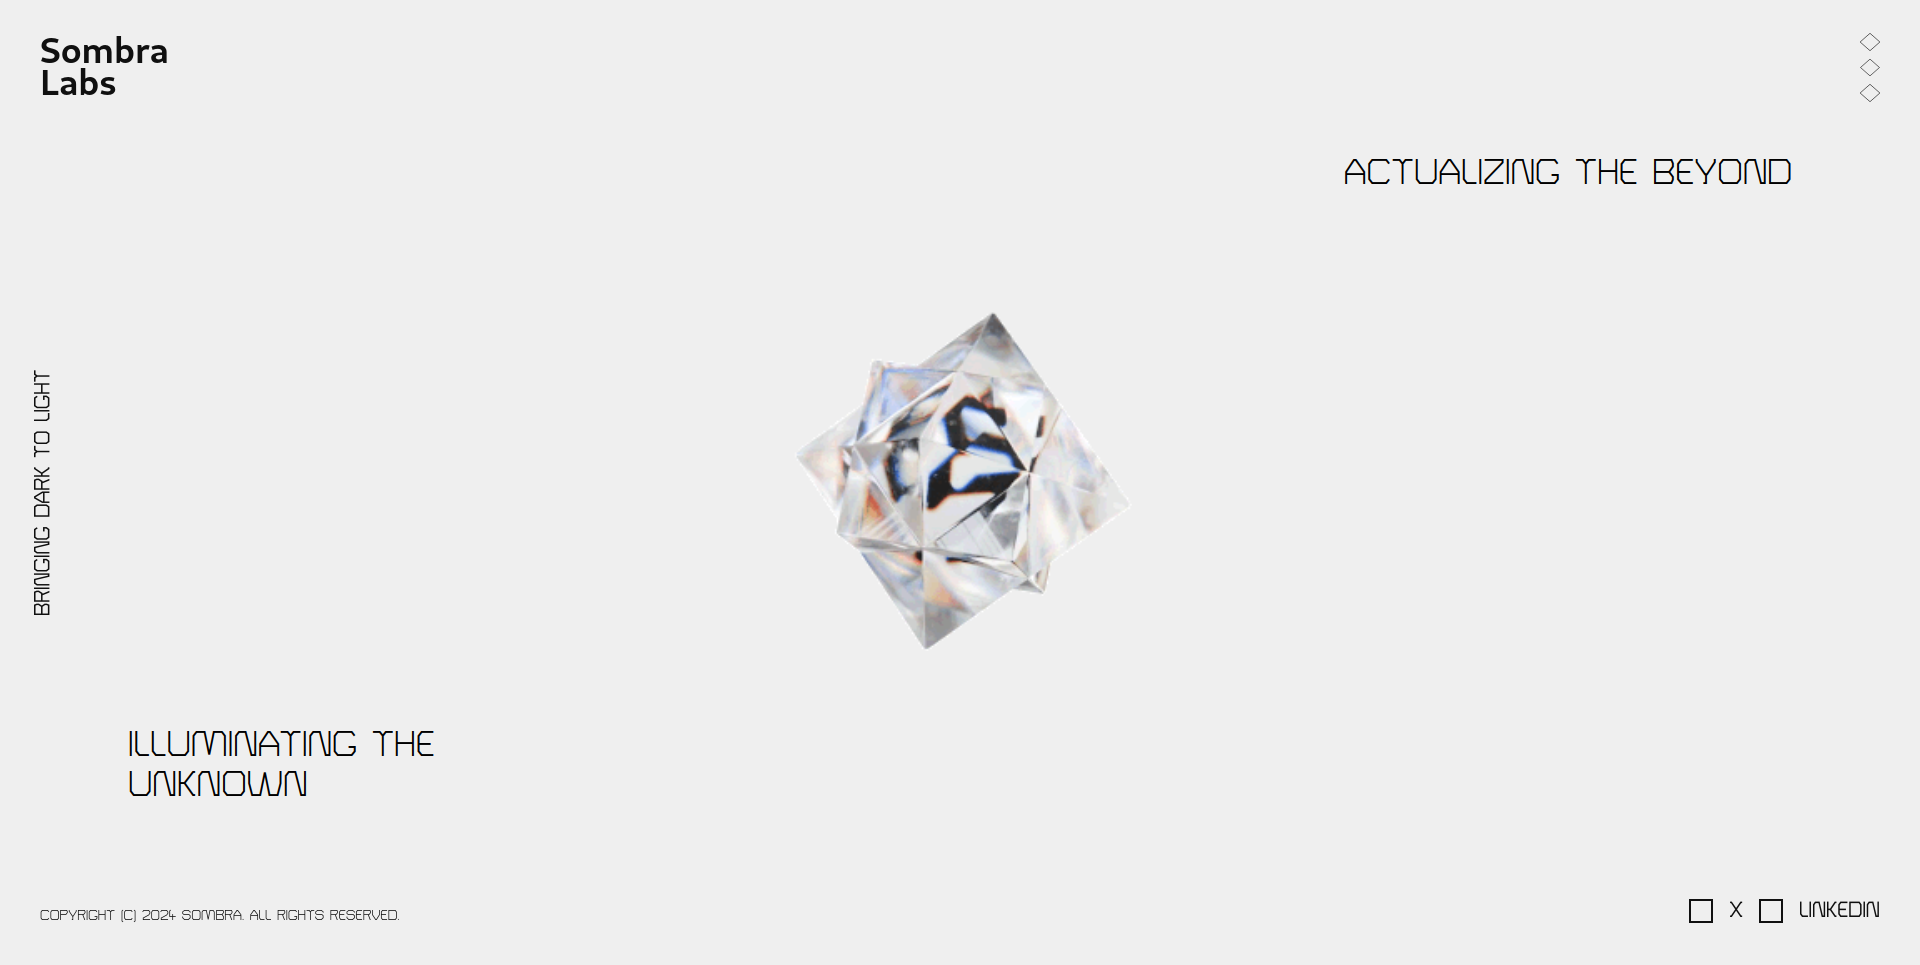
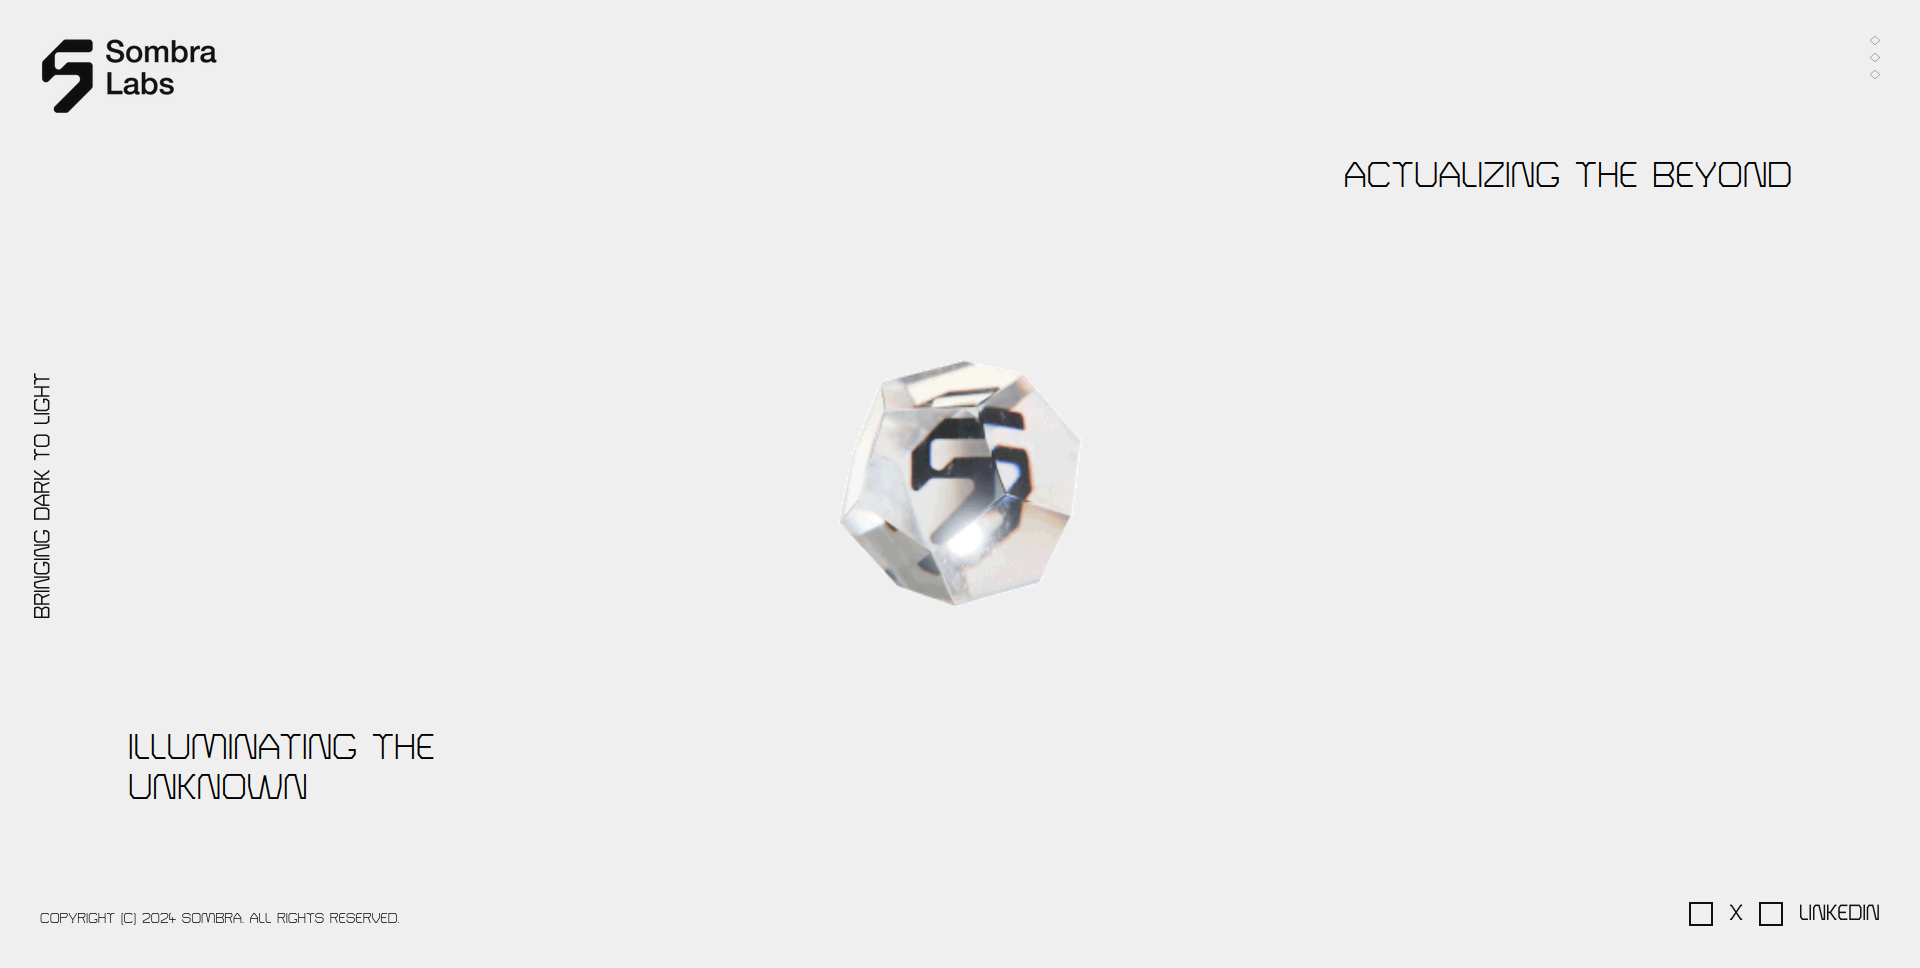
updates

diff --git a/components/Diamond.tsx b/components/Diamond.tsx
@@ -43,7 +43,7 @@ const Diamond = () => {
             ref={vidRef}
           />
 
-        <div className={ `${introDone ? 'text-black':'text-white'} transition-color uppercase z-10` }>
+        <div className={ `${introDone ? 'text-black':'text-white'} transition-color uppercase z-10 font-bold` }>
           <div className="absolute top-40 right-32 text-4xl">Actualizing the beyond</div>
           <div className="absolute bottom-40 left-32 text-4xl">
             ILLUMINATING THE <br /> UNKNOWN
@@ -52,7 +52,7 @@ const Diamond = () => {
         <Image
           className="cursor-pointer z-10"
           src={`/gifs/${diamond_paths[index]}.gif`}
-          width={500}
+          width={200}
           height={500}
           alt="diamond"
           onClick={() => {

diff --git a/app/layout.tsx b/app/layout.tsx
@@ -1,5 +1,5 @@
 import type { Metadata } from "next";
-import localFont from 'next/font/local'
+import localFont from "next/font/local";
 import "./globals.css";
 
 export const metadata: Metadata = {
@@ -7,7 +7,10 @@ export const metadata: Metadata = {
   description: "made by high-haseeb",
 };
 
-const turret = localFont({src:'./../public/fonts/TurretRoad-Regular.ttf'})
+const turret = localFont({ src: [
+  { path: "./../public/fonts/TurretRoad-Regular.ttf", style: "normal", weight: '400' },
+  { path: "./../public/fonts/TurretRoad-Bold.ttf", style: "normal", weight: '700' },
+] });
 
 export default function RootLayout({
   children,
